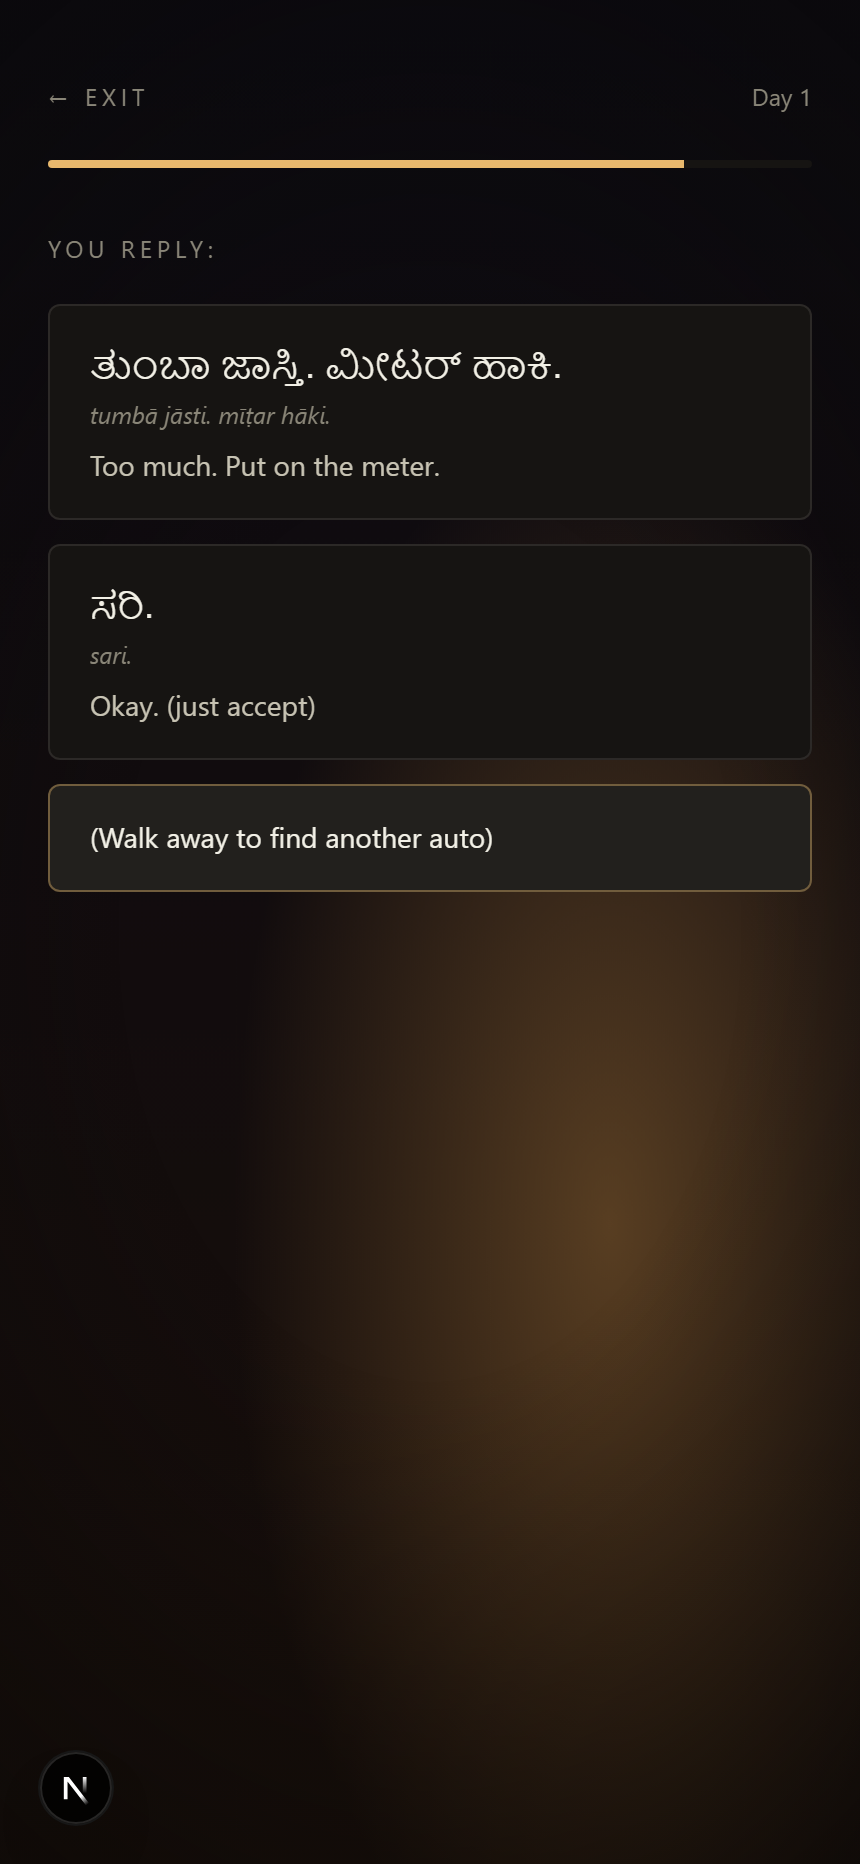
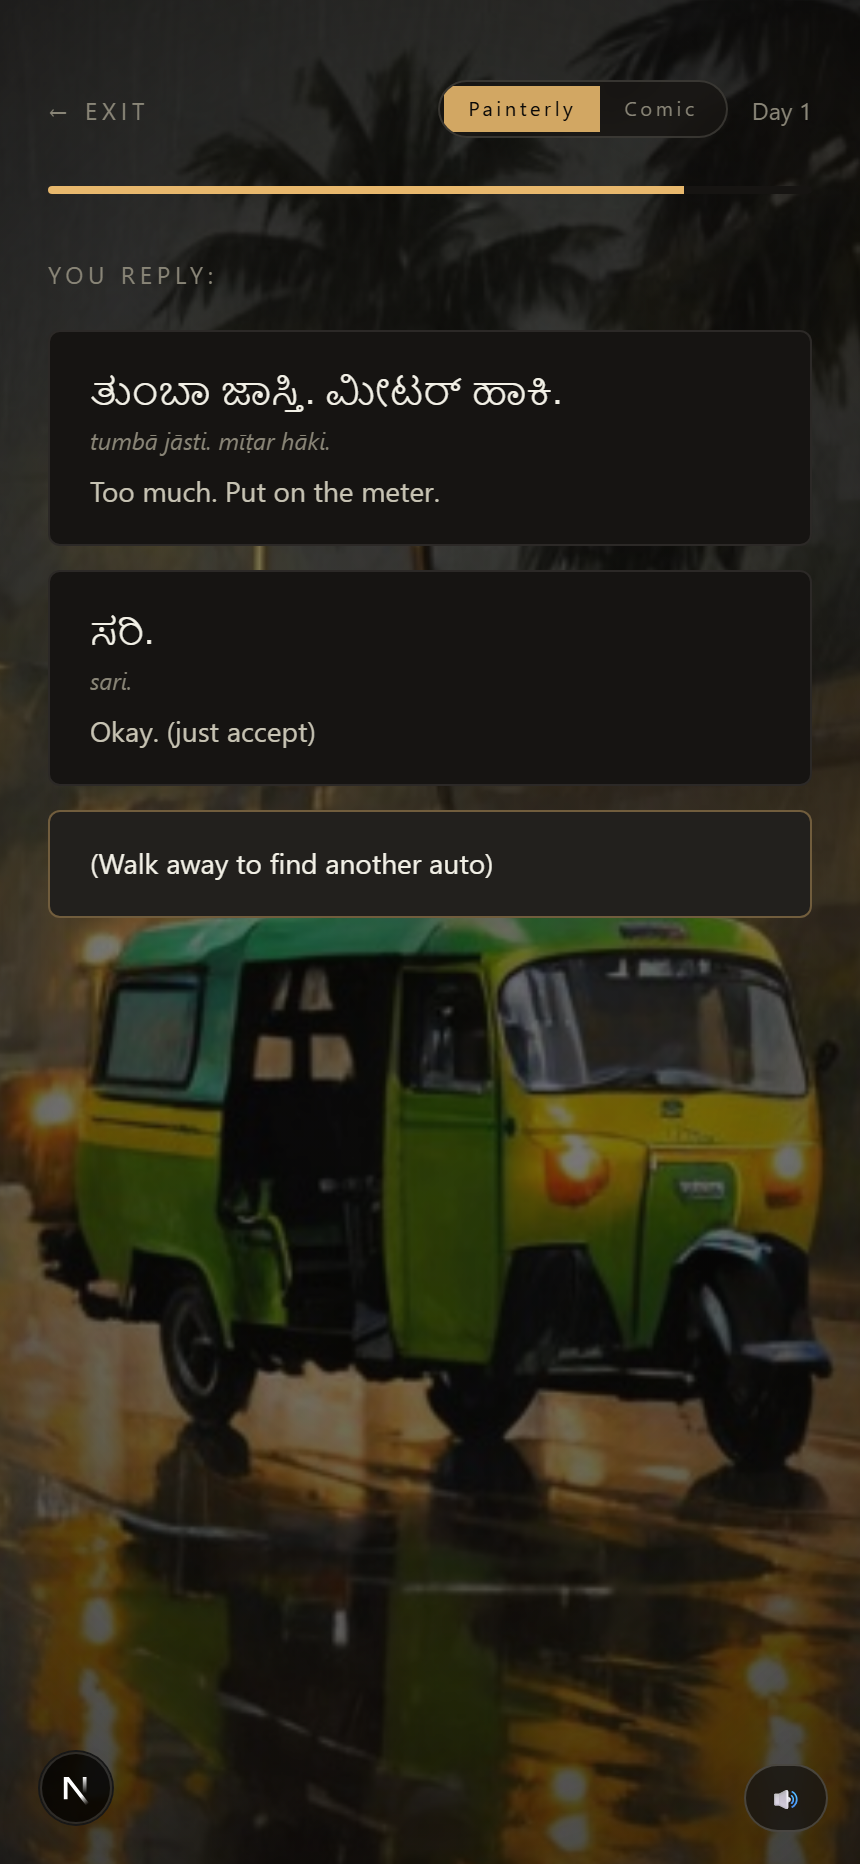
docs: 24 canonical screenshots + build-log milestone 12
24 screenshots in docs/screenshots/. Adds 21-day-01-painterly.png
and 22-day-01-comic.png demonstrating the live style toggle —
same Day 1 chapter, two completely different visual languages,
both with the StyleToggle visible in the chapter header and
ambient mute toggle in the corner.

diff --git a/docs/build-log.md b/docs/build-log.md
@@ -120,6 +120,56 @@ than true frame-by-frame animation. The motion is real (Ken Burns drift
 on the gradient + glow) but it's procedural, not photographic. True
 video/GIF generation per chapter is a v2 with a real image-gen budget.
 
+## Milestone 12 — Dual-style scene art, character portraits, ambient audio
+**Shipped overnight (single autonomous run):**
+- **Bangalore-anchored scene prompts** rewritten for all 30 chapters in
+  `src/lib/scenes.ts`. Auto rickshaws, gopuram, bougainvillea,
+  red-oxide verandahs, BTM market tarps, mango trees, water tanks,
+  Cubbon Park bamboo — every prompt names locality cues.
+- **30 painterly scene renders** at `public/scenes/painterly/`. Oil-on-
+  canvas concept-art via DreamShaper XL Lightning, ~60-70s per image
+  on RTX 4060 mobile (8GB VRAM).
+- **30 comic scene renders** at `public/scenes/comic/`. Graphic-novel
+  ink / cel-shaded variant using the same model with a different
+  style suffix (Sean Murphy / Mignola / Tomer Hanuka reference cues).
+- **Character portrait system** — `src/lib/characters.ts` +
+  `scripts/character_prompts.py` defines 17 recurring NPC templates
+  with locked seeds so each character keeps the same face across
+  generations. Portraits at `public/portraits/{painterly,comic}/`.
+- **Local DreamShaper loader workaround** — HF kept dropping
+  connections trying to fetch SDXL base 1.0 configs. Solved by
+  loading the cached SDXL Turbo pipeline as a scaffold and
+  swapping in DreamShaper's UNet + VAE weights via diffusers'
+  built-in LDM-to-diffusers converters. Fully offline once the
+  Civitai safetensors is cached.
+- **UI integration:**
+  - `SceneBackground` now reads the player's art-style preference,
+    prefers the real generated image, falls back gracefully to the
+    procedural gradient.
+  - `CharacterPortrait` shows next to each NPC speaker name.
+  - `AmbientPlayer` mounts per chapter, fades in over 1.5s, mute
+    toggle persists.
+  - `StyleToggle` in the chapter header switches painterly ↔ comic
+    live. Scene image and portraits both re-render.
+- **Placeholder ambient SFX** synthesised from filtered noise in
+  `scripts/generate_placeholder_sfx.py`. 17 loops at
+  `public/sfx/*.mp3`. Replace with real CC0 field recordings using
+  the same filenames to upgrade.
+
+**Tools added:**
+- `scripts/generate_scenes_local.py` — `--style {painterly,comic}` flag.
+- `scripts/generate_portraits_local.py` — per-character portraits.
+- `scripts/character_prompts.py` — character template registry.
+- `scripts/generate_placeholder_sfx.py` — synthesised ambient loops.
+- `scripts/download_sfx.py` — Pixabay CDN downloader (currently
+  blocked by anti-leech; documented for manual swap).
+
+**Why it matters:** the game now has cinematic scene art per chapter,
+consistent character faces across appearances, and ambient sound. A
+single toggle in the chapter header switches the entire visual
+language between painterly oil and graphic-novel ink. The infra runs
+fully on a consumer 8GB-VRAM laptop GPU — no cloud spend.
+
 ## Milestone 11 — Onboarding, persistent state, hint tiers, multi-ending
 **Shipped:** Four player-facing systems on top of the now-complete 30
 chapters. The game goes from "playable demo" to "complete shippable
